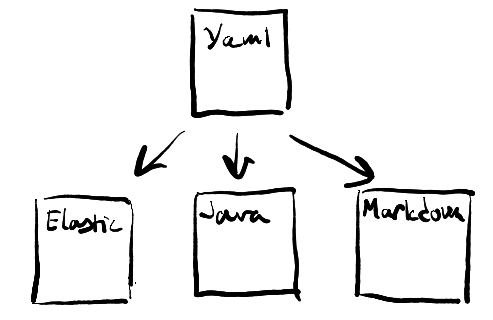
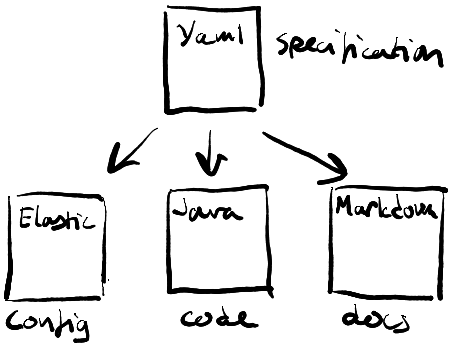
update readme

diff --git a/README.md b/README.md
@@ -3,8 +3,6 @@
 # json-log-domain
 Library supporting JSON-logging. Currently working with [Logback] and [logstash-logback-encoder].
 
-![alt text][intro1.png]
-
 Users will benefit from
 
  * JSON-logging with domain-specific subtrees
@@ -93,7 +91,9 @@ outputs domain-specific subtrees:
 
 where the `global` fields are at the root of the message. 
 # YAML definition format
-The relevant fields and tags are defined in a YAML file, from which Java sources are generated. Example definition:
+The relevant fields and tags are defined in a YAML file, from which Java, Markdown and Elastic sources are generated. 
+
+Example definition:
 
 ```yaml
 version: '1.0'
@@ -147,7 +147,13 @@ Each tag is defined by:
  - `name` - a valid Java Enum name
  - `description` - textual description of the tag
 
-# Generating Java helper sources
+# Maven plugin
+Files in the above YAML format can be used to generate Java helper classes, Elastic message configuration and/or Markdown documents.
+
+![alt text][intro1.png]
+
+## Generating Java helper sources
+
 YAML-files are converted to helper classes using `log-domain-maven-plugin`.
 
 ```xml
